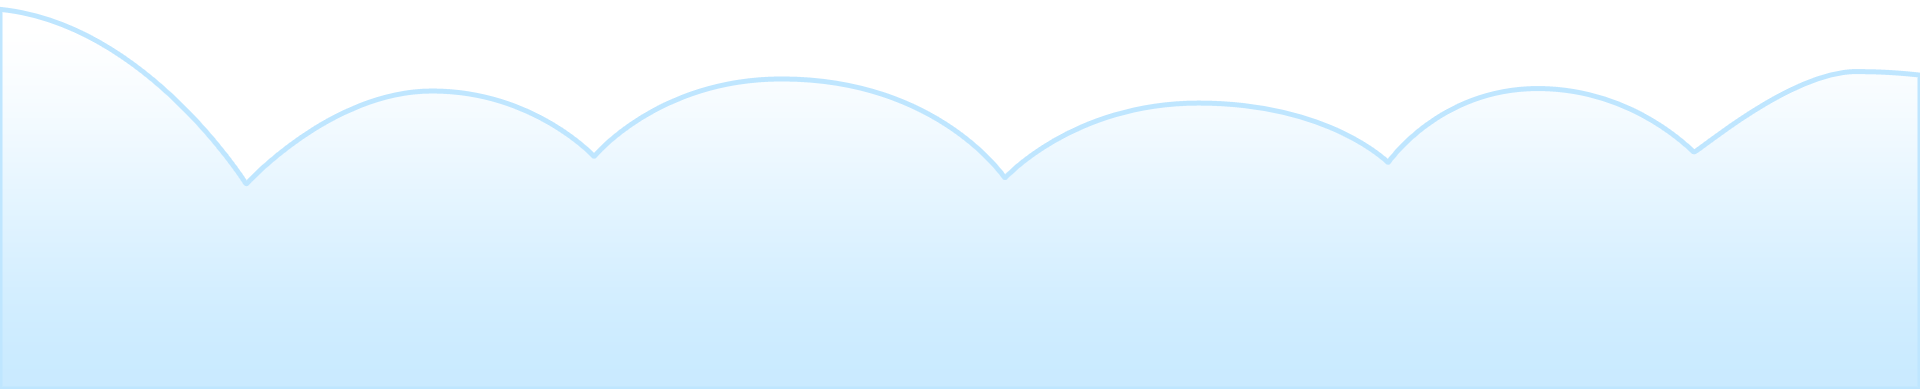
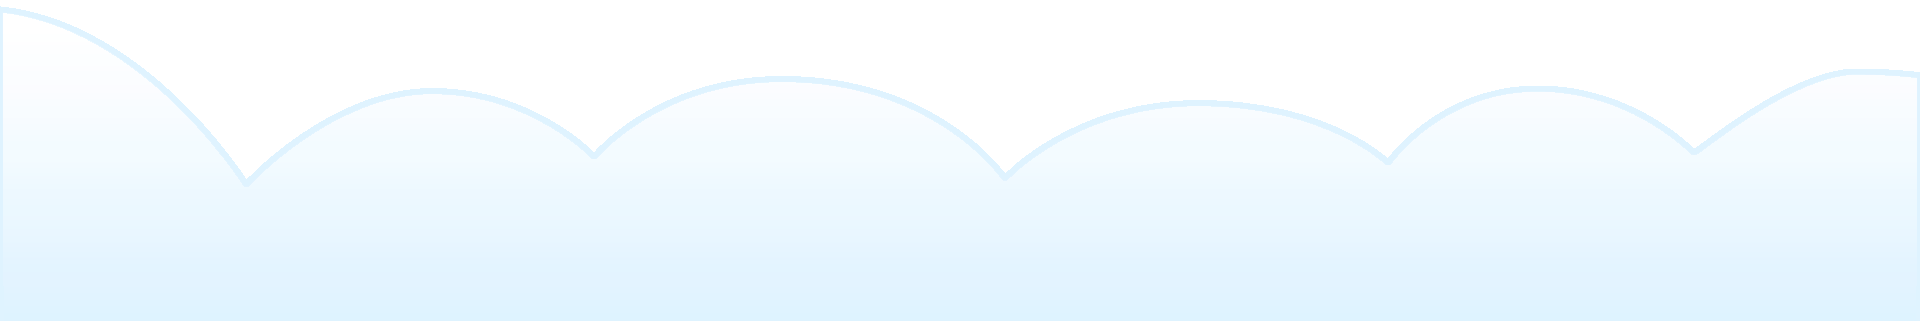
did some css

diff --git a/app/design/frontend/AAllen/sidekick/Magento_Checkout/web/css/source/module/checkout/_progress-bar.less b/app/design/frontend/AAllen/sidekick/Magento_Checkout/web/css/source/module/checkout/_progress-bar.less
@@ -1,0 +1,175 @@
+// /**
+//  * Copyright © 2016 Magento. All rights reserved.
+//  * See COPYING.txt for license details.
+//  */
+
+//
+//  Variables
+//  _____________________________________________
+
+@checkout-progress-bar__font-size: 18px;
+@checkout-progress-bar__font-weight: @font-weight__light;
+@checkout-progress-bar__margin: @indent__base;
+
+@checkout-progress-bar-item__background-color: @color-gray-middle2;
+@checkout-progress-bar-item__border-radius: 6px;
+@checkout-progress-bar-item__color: @primary__color;
+@checkout-progress-bar-item__margin: @indent__s;
+@checkout-progress-bar-item__width: 185px;
+@checkout-progress-bar-item__active__background-color: @color-darkblue1;
+@checkout-progress-bar-item__complete__color: @link__color;
+
+@checkout-progress-bar-item-element__height: @checkout-progress-bar-item-element__width;
+@checkout-progress-bar-item-element__width: 38px;
+
+@checkout-progress-bar-item-element-inner__background-color: @page__background-color;
+@checkout-progress-bar-item-element-inner__color: @checkout-progress-bar-item__color;
+@checkout-progress-bar-item-element-inner__height: @checkout-progress-bar-item-element-inner__width;
+@checkout-progress-bar-item-element-inner__width: @checkout-progress-bar-item-element__width - (@checkout-progress-bar-item-element-outer-radius__width * 2);
+@checkout-progress-bar-item-element-inner__active__content: @icon-checkmark;
+@checkout-progress-bar-item-element-inner__active__font-size: 28px;
+@checkout-progress-bar-item-element-inner__active__line-height: 1;
+
+@checkout-progress-bar-item-element-outer-radius__width: 6px;
+
+//
+//  Common
+//  _____________________________________________
+
+& when (@media-common = true) {
+
+  //
+  //  Checkout Progress Bar
+  //  ---------------------------------------------
+
+  .opc-progress-bar {
+    &:extend(.abs-reset-list all);
+    .lib-css(margin, 0 0 @checkout-progress-bar__margin);
+    counter-reset: i;
+    font-size: 0;
+  }
+
+  .opc-progress-bar-item {
+    .lib-css(margin, 0 0 @checkout-progress-bar-item__margin);
+    display: inline-block;
+    position: relative;
+    text-align: center;
+    vertical-align: top;
+    width: 50%;
+
+    &:before { // Horizontal line
+      .lib-css(background, @checkout-progress-bar-item__background-color);
+      .lib-css(top, @checkout-progress-bar-item-element__width/2);
+      content: '';
+      height: 7px;
+      left: 0;
+      position: absolute;
+      width: 100%;
+    }
+
+    &:first-child {
+      &:before {
+        .lib-css(border-radius, @checkout-progress-bar-item__border-radius 0 0 @checkout-progress-bar-item__border-radius);
+      }
+    }
+
+    &:last-child {
+      &:before {
+        .lib-css(border-radius, 0 @checkout-progress-bar-item__border-radius @checkout-progress-bar-item__border-radius 0);
+      }
+    }
+
+    > span {
+      display: inline-block;
+      padding-top: 45px;
+      width: 100%;
+      word-wrap: break-word;
+
+      .lib-typography(
+        @_color: @checkout-progress-bar-item__background-color,
+        @_font-family: false,
+        @_font-size: @checkout-progress-bar__font-size,
+        @_font-style: false,
+        @_font-weight: @checkout-progress-bar__font-weight,
+        @_line-height: false
+      );
+
+      &:before, // Item element
+      &:after {
+        .lib-css(background, @checkout-progress-bar-item__background-color);
+        .lib-css(height, @checkout-progress-bar-item-element__height);
+        .lib-css(margin-left, -(@checkout-progress-bar-item-element__width/2));
+        .lib-css(width, @checkout-progress-bar-item-element__width);
+        border-radius: 50%;
+        content: '';
+        left: 50%;
+        position: absolute;
+        top: 0;
+      }
+
+      &:after { // Item element inner
+        .lib-css(background, @checkout-progress-bar-item-element-inner__background-color);
+        .lib-css(height, @checkout-progress-bar-item-element-inner__height);
+        .lib-css(margin-left, -(@checkout-progress-bar-item-element-inner__width/2));
+        .lib-css(top, @checkout-progress-bar-item-element-outer-radius__width);
+        .lib-css(width, @checkout-progress-bar-item-element-inner__width);
+        content: counter(i);
+        counter-increment: i;
+        .lib-typography(
+          @_color: @checkout-progress-bar-item-element-inner__color,
+          @_font-family: false,
+          @_font-size: @checkout-progress-bar__font-size,
+          @_font-style: false,
+          @_font-weight: @font-weight__semibold,
+          @_line-height: false
+        );
+      }
+    }
+
+    &._active {
+      &:before {
+        background: @checkout-progress-bar-item__active__background-color;
+      }
+
+      > span {
+        .lib-css(color, @checkout-progress-bar-item__color);
+
+        &:before {
+          .lib-css(background, @checkout-progress-bar-item__active__background-color);
+        }
+
+        &:after {
+          .lib-css(content, @checkout-progress-bar-item-element-inner__active__content);
+          .lib-css(font-family, @icons__font-name);
+          .lib-css(line-height, @checkout-progress-bar-item-element-inner__active__line-height);
+          .lib-font-size(@checkout-progress-bar-item-element-inner__active__font-size);
+        }
+      }
+    }
+
+    &._complete {
+      cursor: pointer;
+
+      > span {
+        .lib-css(color, @checkout-progress-bar-item__color);
+
+        &:after {
+          .lib-css(content, @checkout-progress-bar-item-element-inner__active__content);
+          .lib-css(font-family, @icons__font-name);
+          .lib-css(line-height, @checkout-progress-bar-item-element-inner__active__line-height);
+          .lib-font-size(@checkout-progress-bar-item-element-inner__active__font-size);
+        }
+      }
+    }
+  }
+}
+
+//
+//  Desktop
+//  _____________________________________________
+
+.media-width(@extremum, @break) when (@extremum = 'min') and (@break = @screen__m) {
+  .opc-progress-bar-item {
+    .lib-css(width, @checkout-progress-bar-item__width);
+  }
+}

diff --git a/app/design/frontend/AAllen/sidekick/web/css/source/lib/variables/_buttons.less b/app/design/frontend/AAllen/sidekick/web/css/source/lib/variables/_buttons.less
@@ -1,0 +1,102 @@
+// /**
+//  * Copyright © 2016 Magento. All rights reserved.
+//  * See COPYING.txt for license details.
+//  */
+
+//
+//  Buttons variables
+//  _____________________________________________
+
+//
+//  Buttons
+//  ---------------------------------------------
+
+//  Font style
+@button__font-family: @font-family__base;
+@button__font-size: @font-size__base;
+@button__font-weight: @font-weight__bold;
+@button__line-height: @font-size__base + 2;
+@button__margin: 0;
+@button__padding: 7px 15px; // is set up to false when buttons don't depend on side paddings or have fixed width
+@button__width: false; // is set up to false when buttons depend on side paddings or to fixed value when needed
+
+//  Display settings
+@button__display: inline-block;
+@button__cursor: pointer;
+@button__border-radius: 3px;
+
+@button__disabled__opacity: .5;
+
+//  Default = secondary button
+@button__color: @primary__color;
+@button__background: @color-gray95;
+@button__border: 1px solid @color-gray-darken2;
+@button__gradient-color-start: false;
+@button__gradient-color-end: false;
+
+@button__hover__color: @color-gray-darken3;
+@button__hover__background: @color-gray-darken1;
+@button__hover__border: @button__border;
+@button__hover__gradient-color-start: false;
+@button__hover__gradient-color-end: false;
+
+@button__active__color: @button__color;
+@button__active__background: @button__hover__background;
+@button__active__border: @button__border;
+@button__active__gradient-color-start: false;
+@button__active__gradient-color-end: false;
+
+//  Primary button
+@button-primary__line-height: false;
+@button-primary__width: false;
+@button-primary__margin: false;
+@button-primary__padding: @button__padding;
+@button-primary__gradient: false;
+@button-primary__gradient-direction: false;
+
+@button-primary__background: @color-blue1;
+@button-primary__border: 1px solid @color-blue1;
+@button-primary__color: @color-white;
+@button-primary__gradient-color-start: @color-blue2;
+@button-primary__gradient-color-end: @color-myblue1;
+
+@button-primary__hover__background: @color-blue2;
+@button-primary__hover__border: 1px solid @color-blue2;
+@button-primary__hover__color: @button-primary__color;
+@button-primary__hover__gradient-color-start: false;
+@button-primary__hover__gradient-color-end: false;
+
+@button-primary__active__background: @button-primary__hover__background;
+@button-primary__active__border: @button-primary__hover__border;
+@button-primary__active__color: @button-primary__color;
+@button-primary__active__gradient-color-start: false;
+@button-primary__active__gradient-color-end: false;
+
+//  Gradient button
+@button__gradient: true; // [true|false] - button has a gradient background
+@button__gradient-direction: vertical; // button gradient direction if button has a gradient background
+
+//  Button with icon
+@button-icon__use: false;
+@button-icon__content: @icon-settings;
+@button-icon__font: @icon-font;
+@button-icon__font-size: 22px;
+@button-icon__line-height: @button-icon__font-size;
+@button-icon__color: inherit;
+@button-icon__margin: 0;
+@button-icon__vertical-align: top;
+@button-icon__position: @icon__position;
+@button-icon__text-hide: false;
+
+@button-icon__hover__font-color: inherit;
+@button-icon__active__font-color: inherit;
+
+//  Large button
+@button__font-size__l: @font-size__l;
+@button__line-height__l: @font-size__l + 4;
+@button__padding__l: 14px 17px;
+
+//  Small button
+@button__font-size__s: 11px;
+@button__line-height__s: @button__font-size__s + 1;
+@button__padding__s: @indent__xs 8px;

diff --git a/app/design/frontend/AAllen/sidekick/web/css/source/_theme.less b/app/design/frontend/AAllen/sidekick/web/css/source/_theme.less
@@ -12,6 +12,29 @@
 //  All new variables should be placed in local theme lib or local theme files
 
 /**
+      Colors
+ */
+@color-darkblue1: #539eff;
+@color-myblue1: #28a8ff;
+
+@active__color: @color-myblue1;
+
+/**
+      Overrides
+ */
+@button-primary__background: @color-myblue1;
+//@button-primary__gradient-color-start: @color-myblue1;
+//@button-primary__gradient-color-end: #1ac0f6;
+//@button-primary__gradient: true;
+//@button-primary__gradient-direction: vertical;
+@button-primary__border: none;
+@button-primary__hover__border: none;
+@button-primary__hover__background: darken(@color-myblue1, 10%);
+//@button-primary__hover__gradient-color-start: darken(@color-myblue1,10%);
+//@button-primary__hover__gradient-color-end: darken(#1ac0f6,10%);
+//@button-primary__active__gradient-color-start: @button-primary__hover__gradient-color-start;
+//@button-primary__active__gradient-color-end: @button-primary__hover__gradient-color-end;
+/**
       Background
  */
 body {
@@ -31,6 +54,9 @@ body {
 }
 .minicart-wrapper {
   margin-left: -100%;
+}
+.current {
+  color: @color-gray-middle3;
 }
 
 /**
@@ -65,3 +91,7 @@ body {
     text-align: center;
   }
 }
+
+/**
+      Check Out
+ */

diff --git a/app/code/AAllen/TieredBackground/view/frontend/web/css/source/_module.less b/app/code/AAllen/TieredBackground/view/frontend/web/css/source/_module.less
@@ -10,12 +10,21 @@
   z-index: -101;
 }
 .tiered-background.two {
-  bottom: 200px;
+  bottom: 190px;
   z-index: -102;
-  opacity: .6;
+  //opacity: .6;
 }
 .tiered-background.three {
-  bottom: 240px;
+  bottom: 215px;
   z-index: -103;
-  opacity: .45;
+  //opacity: .45;
+}
+
+/**
+      MOBILE
+ */
+.media-width(@extremum, @break) when (@extremum = 'max') and (@break = @screen__m) {
+  .tiered-background {
+    display: none;
+  }
 }
